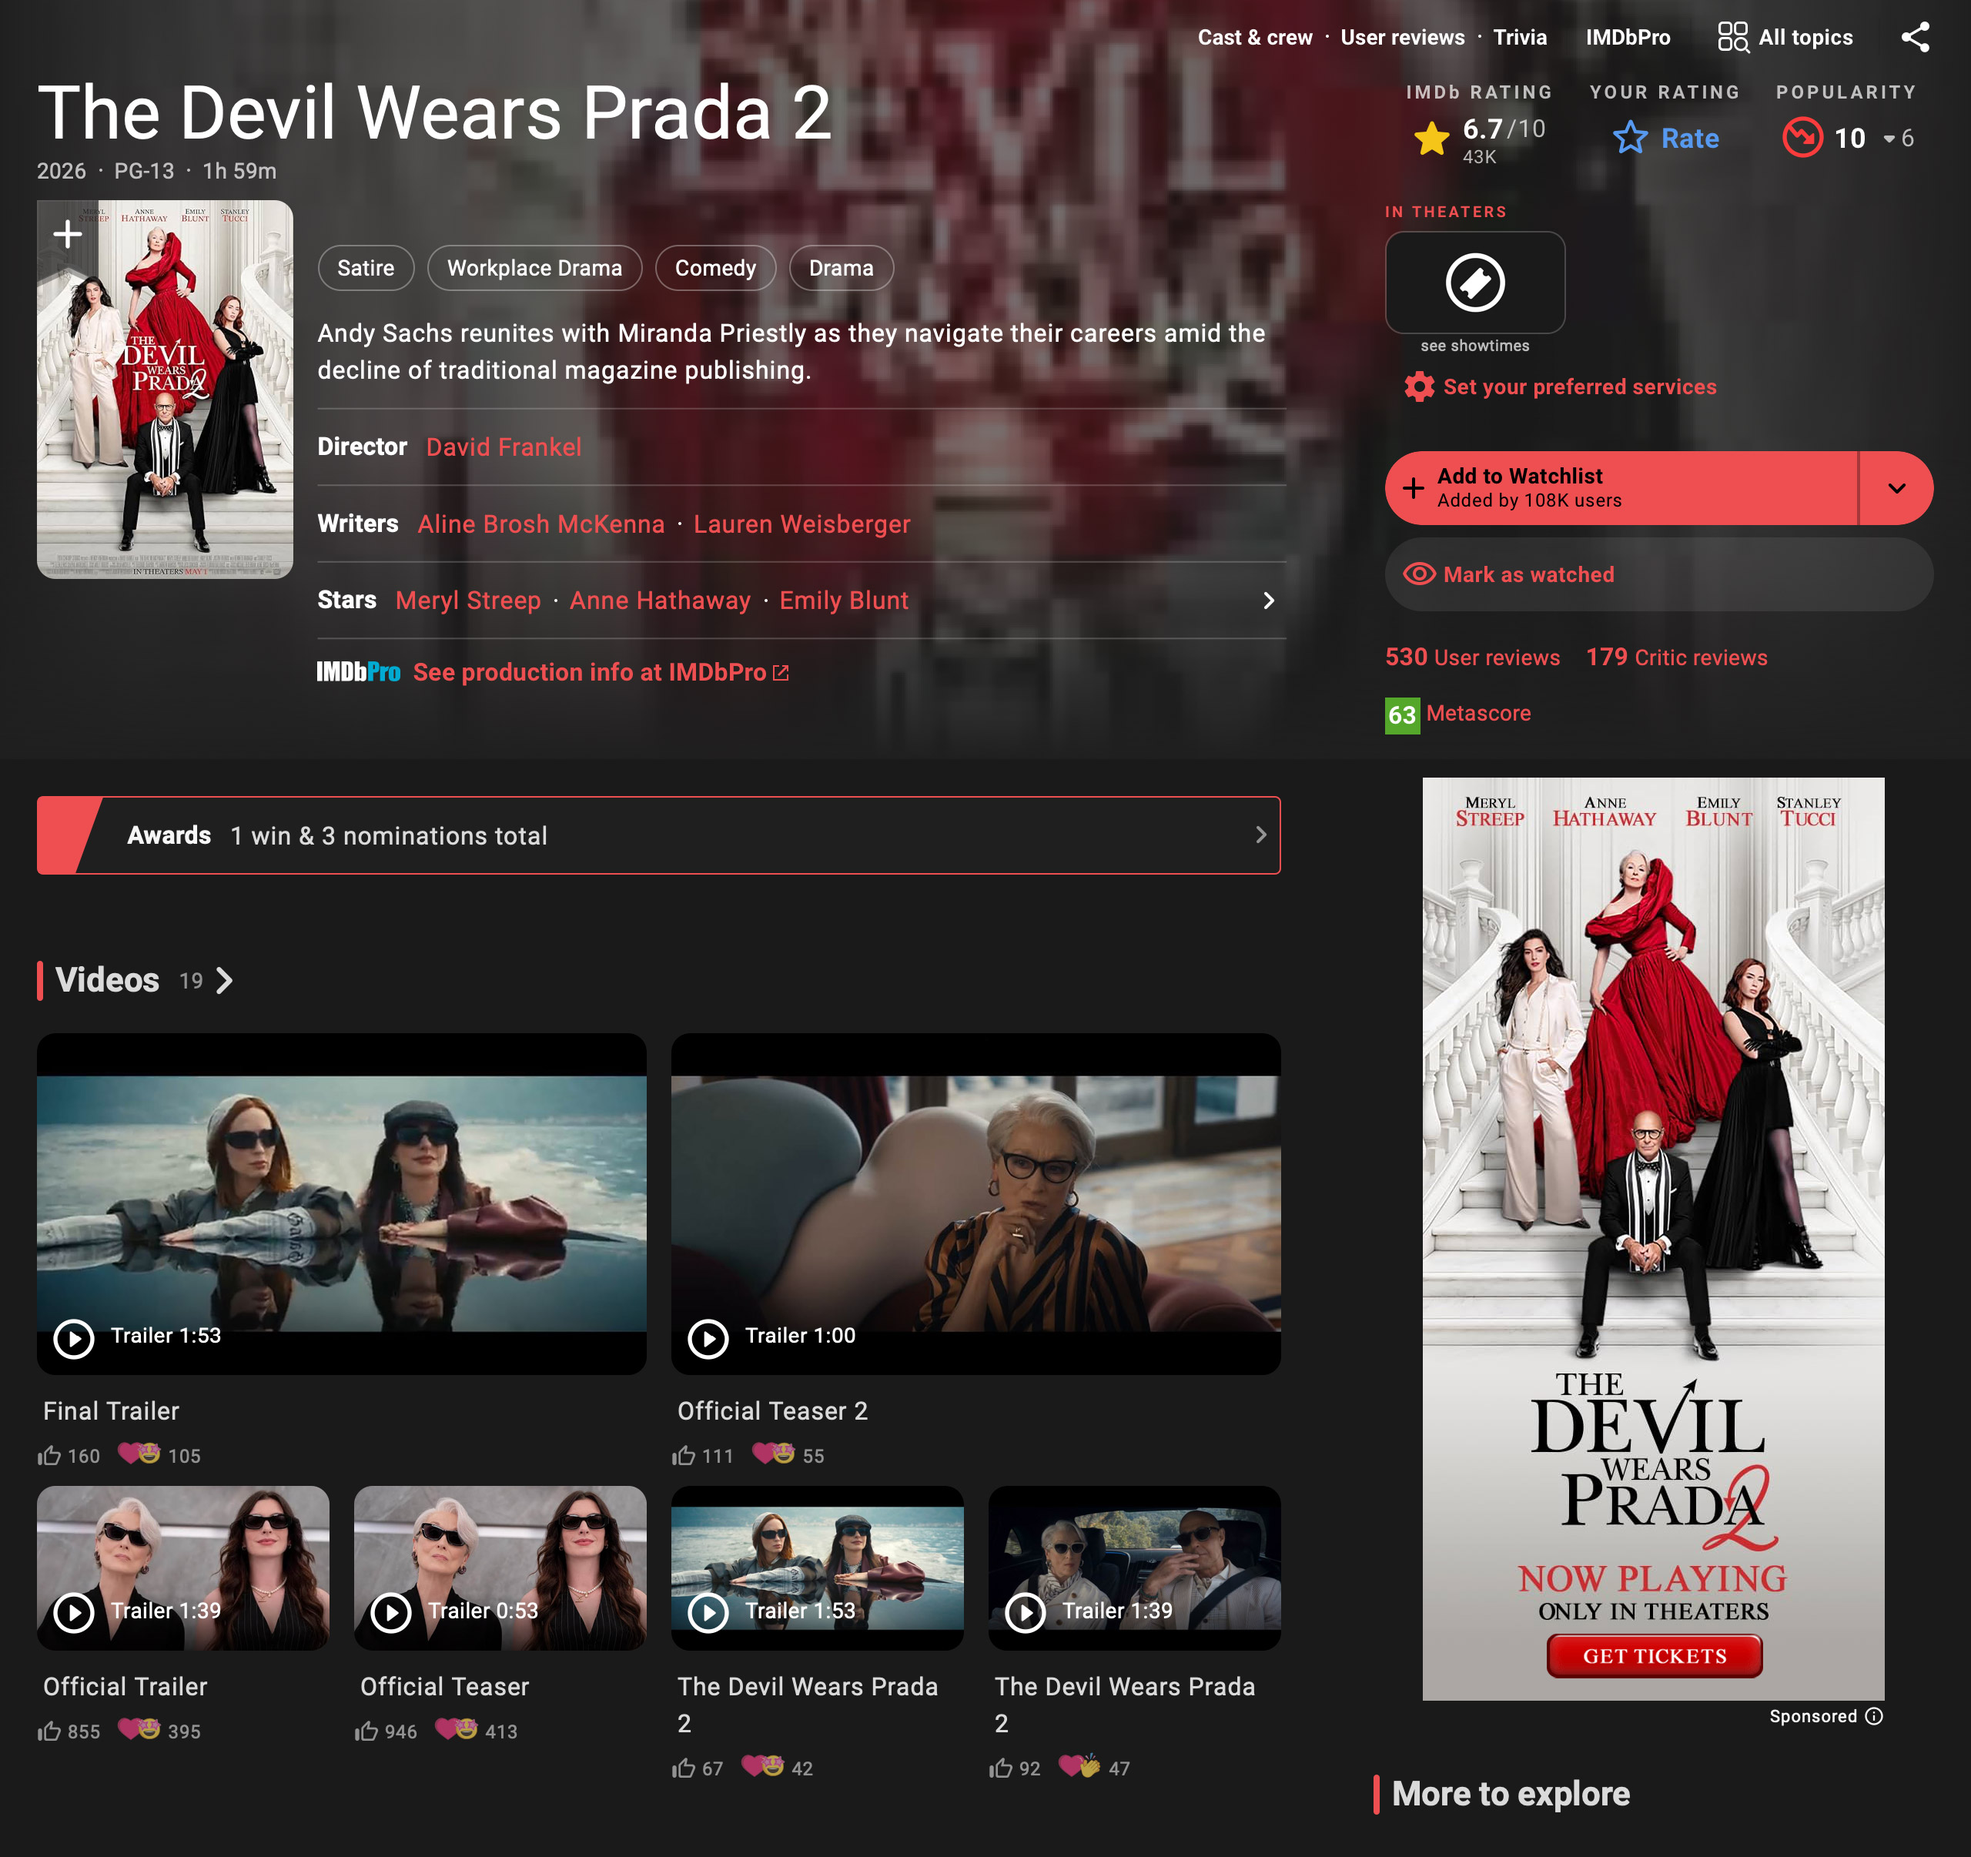
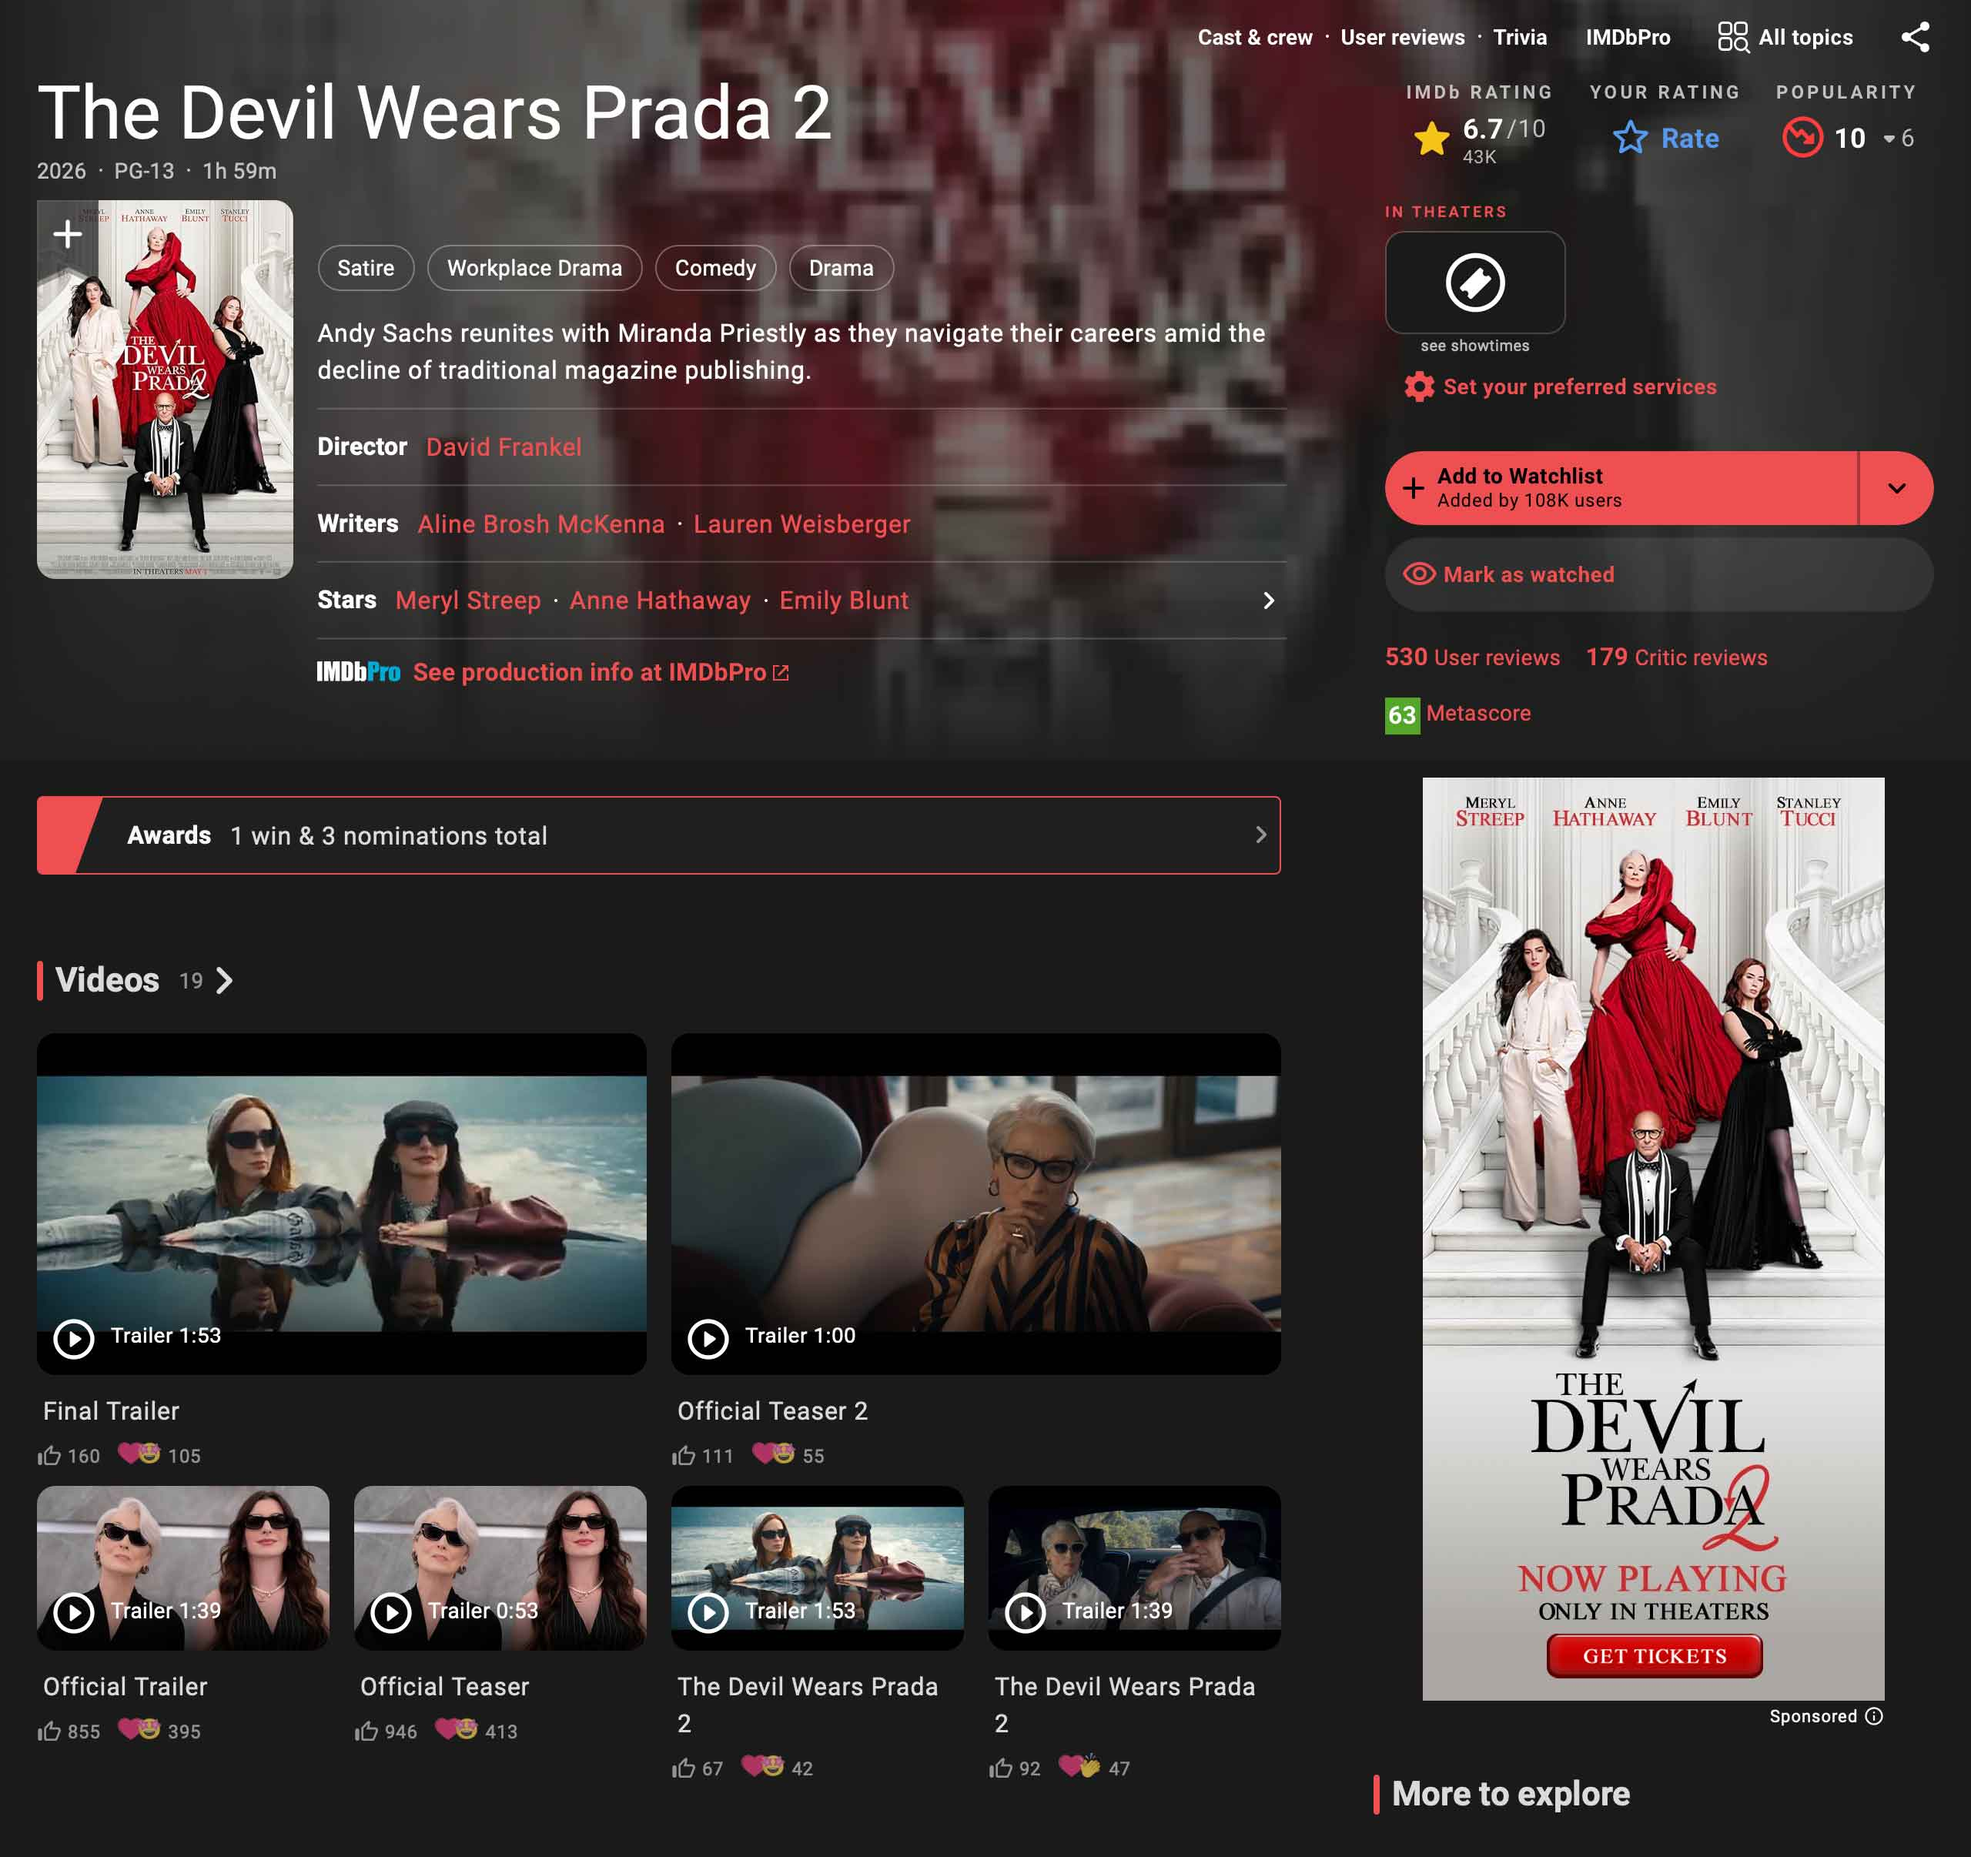
Reverted to retina asset, but compressed before the webp pipeline step

diff --git a/src/chrome/BigGreyBox/BigGreyBox.jsx b/src/chrome/BigGreyBox/BigGreyBox.jsx
@@ -1,6 +1,6 @@
 import "./BigGreyBox.css";
 
-import chromeBody from "../../assets/images-compressed/chrome-body-small.webp";
+import chromeBody from "../../assets/images-compressed/chrome-body.webp";
 import HalfPage from "../HalfPage/HalfPage";
 
 export default function BigGreyBox() {
